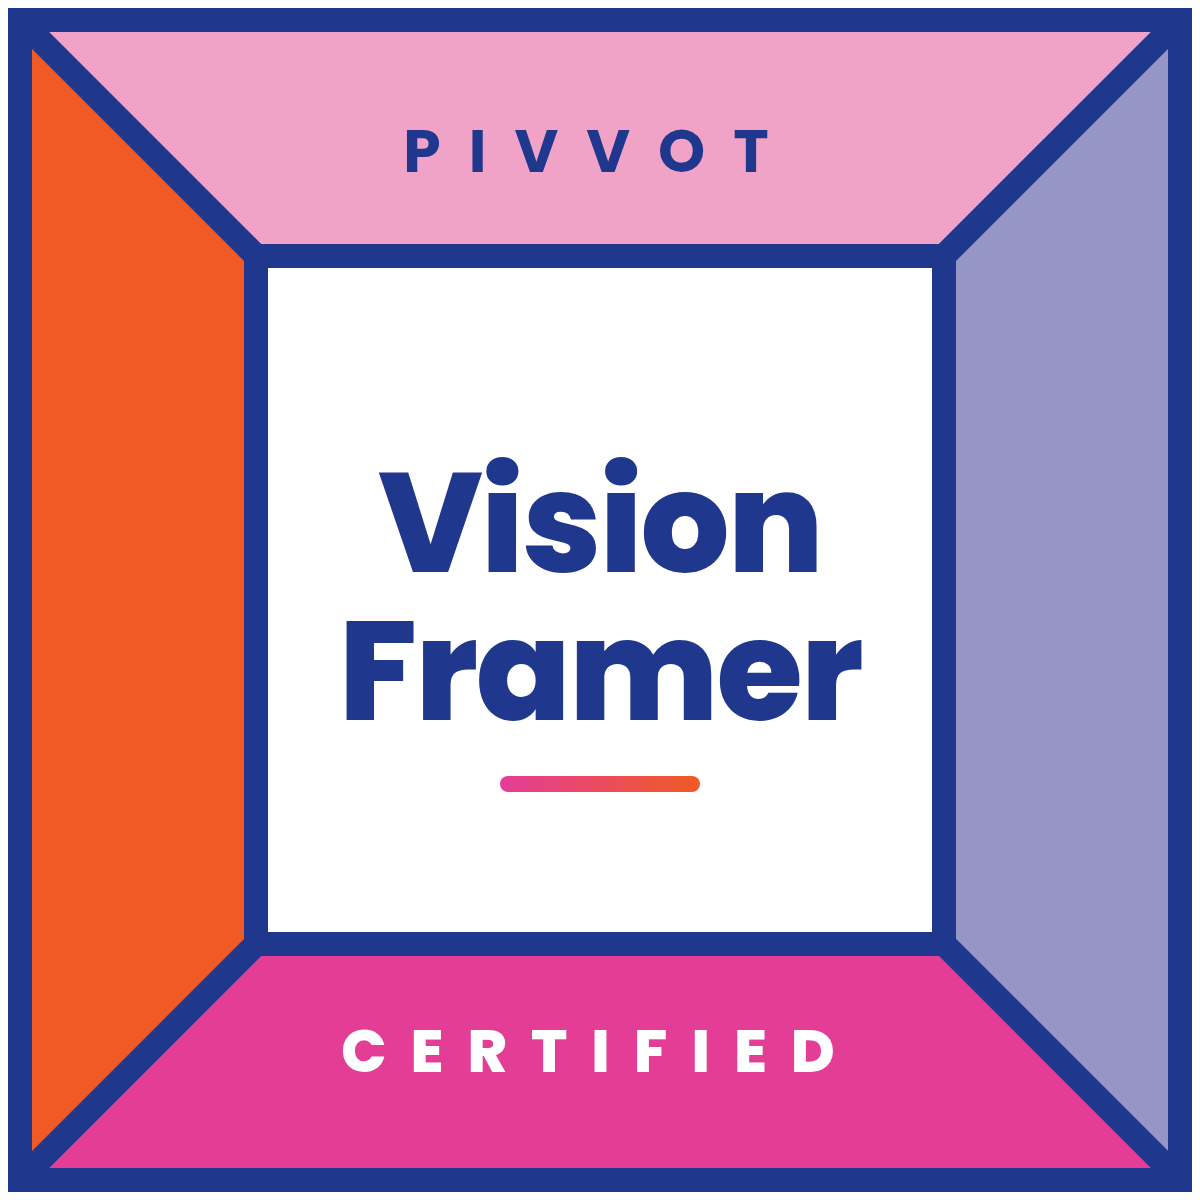
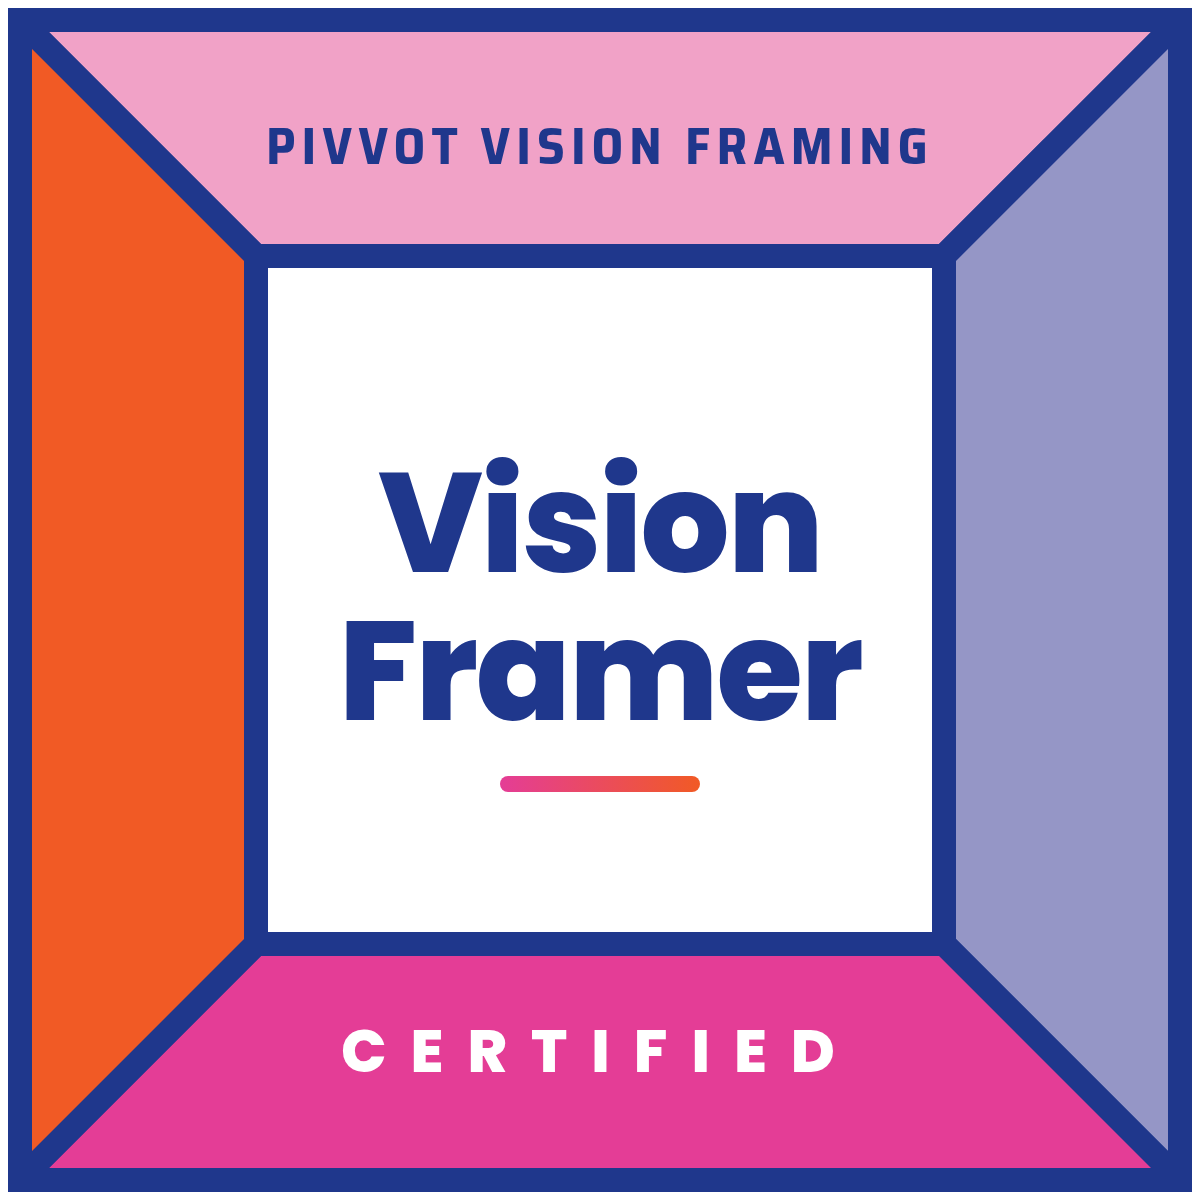
Badges: Pivvot Vision Framing as issuer; add cert-wordmark option
Set the issuer line on every badge in the Pivvot Vision Framing
wordmark face (Saira Semi Condensed, matched to the Canva cert badge)
and add Option E: the existing stacked cert-badge wordmark inside the
handout Vision Frame.

Claude-Session: https://claude.ai/code/session_01BSFopuXw4RjBGF4kx6dqA9

Changed region(s): [[0.2158, 0.0925, 0.7708, 0.1542]]

diff --git a/assets/badges/src/build-badges.js b/assets/badges/src/build-badges.js
@@ -9,8 +9,13 @@ const C = {
 const FONT = "PoppinsBadge, Poppins, 'Segoe UI', Helvetica, Arial, sans-serif";
 // Poppins (SIL OFL) subset to the badge's characters and embedded, so the SVG renders
 // correctly anywhere, including as an <img> where external fonts can't load.
-const FACES = [600, 700, 800].map((w) =>
-  `@font-face{font-family:PoppinsBadge;font-weight:${w};src:url(data:font/woff2;base64,${fs.readFileSync(path.join(__dirname, 'fonts', `pb-${w}.woff2`)).toString('base64')}) format('woff2')}`).join('');
+// The Pivvot Vision Framing wordmark (the Canva "Cert Badge") is set in a squared
+// condensed face; Saira Semi Condensed (SIL OFL) matches it and is embedded the same way.
+const WM = "PivvotWordmark, 'Saira Semi Condensed', 'Arial Narrow', sans-serif";
+const face = (fam, file, w) =>
+  `@font-face{font-family:${fam};font-weight:${w};src:url(data:font/woff2;base64,${fs.readFileSync(path.join(__dirname, 'fonts', `${file}-${w}.woff2`)).toString('base64')}) format('woff2')}`;
+const FACES = [600, 700, 800].map((w) => face('PoppinsBadge', 'pb', w)).join('')
+  + [500, 700, 800].map((w) => face('PivvotWordmark', 'ss', w)).join('');
 
 // The Vision Frame icon from the certification handouts, rebuilt as vectors.
 // Outer square s, inner window inset 20% (matches icon-vision-frame.png).
@@ -38,7 +43,7 @@ const svg = (w, h, title, body) =>
 </svg>
 `;
 
-const TITLE = 'Pivvot Certified Vision Framer';
+const TITLE = 'Pivvot Vision Framing: Certified Vision Framer';
 
 // A · The Frame Seal — circular credential seal (ICF, Scrum Alliance, SHRM).
 function seal(p = 'a') {
@@ -46,15 +51,15 @@ function seal(p = 'a') {
   const arc = (r, top) => top
     ? `M ${cx - r} ${cy} A ${r} ${r} 0 0 1 ${cx + r} ${cy}`
     : `M ${cx - r} ${cy} A ${r} ${r} 0 0 0 ${cx + r} ${cy}`;
-  const txt = (id, s, size, ls) =>
-    `<text font-family="${FONT}" font-weight="700" font-size="${size}" letter-spacing="${ls}" fill="${C.white}" text-anchor="middle"><textPath href="#${id}" startOffset="50%">${s}</textPath></text>`;
+  const txt = (id, s, size, ls, font = FONT) =>
+    `<text font-family="${font}" font-weight="700" font-size="${size}" letter-spacing="${ls}" fill="${C.white}" text-anchor="middle"><textPath href="#${id}" startOffset="50%">${s}</textPath></text>`;
   const fs_ = 184, fx = cx - fs_ / 2;
   return svg(600, 600, TITLE, `<defs>${grad(p + 'g')}
     <path id="${p}top" d="${arc(231, true)}"/><path id="${p}bot" d="${arc(254, false)}"/></defs>
   <circle cx="${cx}" cy="${cy}" r="296" fill="url(#${p}g)"/>
   <circle cx="${cx}" cy="${cy}" r="284" fill="${C.navy}"/>
   ${txt(p + 'top', 'CERTIFIED VISION FRAMER', 29, 5)}
-  ${txt(p + 'bot', 'PIVVOT · VISION FRAMING', 25, 7)}
+  ${txt(p + 'bot', 'PIVVOT VISION FRAMING', 31, 6, WM)}
   ${frame(cx - 262 - 11, cy - 11, 22, { sw: 1.4 })}
   ${frame(cx + 262 - 11, cy - 11, 22, { sw: 1.4 })}
   <circle cx="${cx}" cy="${cy}" r="202" fill="url(#${p}g)"/>
@@ -72,8 +77,8 @@ function hexagon(p = 'b') {
   <polygon points="${hex(R)}" fill="${C.navy}"/>
   <polygon points="${hex(R - 16)}" fill="${C.white}"/>
   <polygon points="${hex(R - 28)}" fill="none" stroke="${C.lavender}" stroke-width="2"/>
-  <text x="${cx}" y="150" font-family="${FONT}" font-weight="700" font-size="24" letter-spacing="9" fill="${C.navy}" text-anchor="middle">PIVVOT</text>
-  ${frame(cx - 80, 176, 160)}
+  <text x="${cx}" y="160" font-family="${WM}" font-weight="700" font-size="21" letter-spacing="2.5" fill="${C.navy}" text-anchor="middle">PIVVOT VISION FRAMING</text>
+  ${frame(cx - 80, 182, 160)}
   <polygon points="6,372 44,410 6,448 70,448 70,372" fill="#B3265F"/>
   <polygon points="594,372 556,410 594,448 530,448 530,372" fill="#C2410C"/>
   <polygon points="30,360 570,360 570,436 30,436" fill="url(#${p}g)"/>
@@ -86,7 +91,7 @@ function openFrame(p = 'c') {
   const s = 580, x = 10, y = 10, i = 118;
   return svg(600, 600, TITLE, `<defs>${grad(p + 'g')}</defs>
   ${frame(x, y, s, { inset: i / s, sw: 12 })}
-  <text x="300" y="86" font-family="${FONT}" font-weight="700" font-size="30" letter-spacing="14" fill="${C.navy}" text-anchor="middle">PIVVOT</text>
+  <text x="300" y="82" font-family="${WM}" font-weight="700" font-size="26" letter-spacing="3" fill="${C.navy}" text-anchor="middle">PIVVOT VISION FRAMING</text>
   <text x="300" y="536" font-family="${FONT}" font-weight="800" font-size="30" letter-spacing="12" fill="${C.white}" text-anchor="middle">CERTIFIED</text>
   <text x="300" y="286" font-family="${FONT}" font-weight="800" font-size="70" letter-spacing="-1" fill="${C.navy}" text-anchor="middle">Vision</text>
   <text x="300" y="360" font-family="${FONT}" font-weight="800" font-size="70" letter-spacing="-1" fill="${C.navy}" text-anchor="middle">Framer</text>
@@ -99,9 +104,24 @@ function lockup(p = 'd') {
   <rect x="3" y="3" width="894" height="274" rx="137" fill="${C.white}" stroke="${C.navy}" stroke-width="6"/>
   ${frame(62, 55, 170)}
   <rect x="274" y="62" width="6" height="156" rx="3" fill="url(#${p}g)"/>
-  <text x="316" y="102" font-family="${FONT}" font-weight="600" font-size="22" letter-spacing="5" fill="${C.magenta}">PIVVOT VISION FRAMING</text>
+  <text x="316" y="102" font-family="${WM}" font-weight="700" font-size="28" letter-spacing="4" fill="${C.magenta}">PIVVOT VISION FRAMING</text>
   <text x="314" y="166" font-family="${FONT}" font-weight="800" font-size="54" fill="${C.navy}">Certified</text>
   <text x="314" y="226" font-family="${FONT}" font-weight="800" font-size="54" fill="${C.navy}">Vision Framer</text>`);
+}
+
+// E · The Cert Wordmark — the existing Pivvot Vision Framing cert badge (stacked
+// wordmark, each line set to the same width) framed by the handout Vision Frame.
+function wordmark(p = 'e') {
+  const s = 580, x = 10, y = 10, i = 96, w = 300, lx = 300 - w / 2;
+  const line = (t, wt, size, by) =>
+    `<text x="${lx}" y="${by}" font-family="${WM}" font-weight="${wt}" font-size="${size}" fill="${C.navy}" textLength="${w}" lengthAdjust="spacing">${t}</text>`;
+  return svg(600, 600, TITLE, `
+  ${frame(x, y, s, { inset: i / s, sw: 12 })}
+  <text x="300" y="68" font-family="${FONT}" font-weight="800" font-size="28" letter-spacing="12" fill="${C.navy}" text-anchor="middle">CERTIFIED</text>
+  <text x="300" y="552" font-family="${FONT}" font-weight="800" font-size="26" letter-spacing="7" fill="${C.white}" text-anchor="middle">VISION FRAMER</text>
+  ${line('PIVVOT', 500, 88, 250)}
+  ${line('VISION', 800, 88, 332)}
+  ${line('FRAMING', 700, 76, 406)}`);
 }
 
 const out = process.argv[2] || path.join(__dirname, '..');
@@ -111,7 +131,8 @@ const files = {
   'option-b-credential-hexagon.svg': hexagon(),
   'option-c-open-frame.svg': openFrame(),
   'option-d-signature-lockup.svg': lockup(),
+  'option-e-cert-wordmark.svg': wordmark(),
 };
 for (const [n, s] of Object.entries(files)) fs.writeFileSync(path.join(out, n), s);
-module.exports = { seal, hexagon, openFrame, lockup };
+module.exports = { seal, hexagon, openFrame, lockup, wordmark };
 console.log('wrote', Object.keys(files).join(', '));

diff --git a/assets/badges/README.md b/assets/badges/README.md
@@ -1,19 +1,21 @@
 # Certified Vision Framer badge — draft options
 
-Four directions for the badge Pivvot-certified Vision Framers can use on
-their website, in an email signature, or on LinkedIn. All four are built
-from the Vision Frame icon on the certification handouts
-(`../icon-vision-frame.png`) and use only the brand colours and Poppins
-from `DESIGN.md`.
+Five directions for the badge that Pivvot Vision Framing certified framers
+("Certified Vision Framers") can use on their website, in an email
+signature, or on LinkedIn. The issuer on every badge is Pivvot Vision
+Framing. All are built from the Vision Frame icon on the certification
+handouts (`../icon-vision-frame.png`); Option E also uses the stacked
+wordmark from the "Pivvot Vision Framing Cert Badge" design in Canva.
 
 | File | Direction | Inspired by |
 |---|---|---|
 | `option-a-frame-seal` | Circular seal, ring text around the frame | ICF, Scrum Alliance, SHRM |
 | `option-b-credential-hexagon` | Hexagon with a gradient "Certified" ribbon | AWS, Microsoft, PMI (Credly) |
-| `option-c-open-frame` | The badge *is* the Vision Frame (recommended) | Google Cloud, Apple |
+| `option-c-open-frame` | The badge *is* the Vision Frame | Google Cloud, Apple |
 | `option-d-signature-lockup` | Horizontal pill for signatures and footers | HubSpot Academy, Google Cloud |
+| `option-e-cert-wordmark` | The Canva cert-badge wordmark inside the frame (recommended) | The existing Pivvot cert badge |
 
-Each comes as an SVG (Poppins subset embedded, so it renders correctly as an
+Each comes as an SVG (fonts subset and embedded, so it renders correctly as an
 `<img>` anywhere) and a transparent PNG at 2×. These are drafts; once a
 direction is chosen, produce the final export pack (1200/600/300px PNGs,
 dark-background variant) from the same source.
@@ -24,5 +26,8 @@ dark-background variant) from the same source.
 SVGs into this folder: `node src/build-badges.js`. PNGs were rendered from
 the SVGs in headless Chromium at 2×.
 
-Poppins is © Indian Type Foundry, SIL Open Font License 1.1; `src/fonts/`
-holds subsets limited to the characters the badges use.
+The wordmark is set in Saira Semi Condensed, the closest open-license match
+to the Canva cert badge's typeface. Poppins (Indian Type Foundry) and Saira
+Semi Condensed (Omnibus-Type) are both SIL Open Font License 1.1;
+`src/fonts/` holds subsets limited to the characters the badges use
+(`pb-*` Poppins, `ss-*` Saira Semi Condensed).
